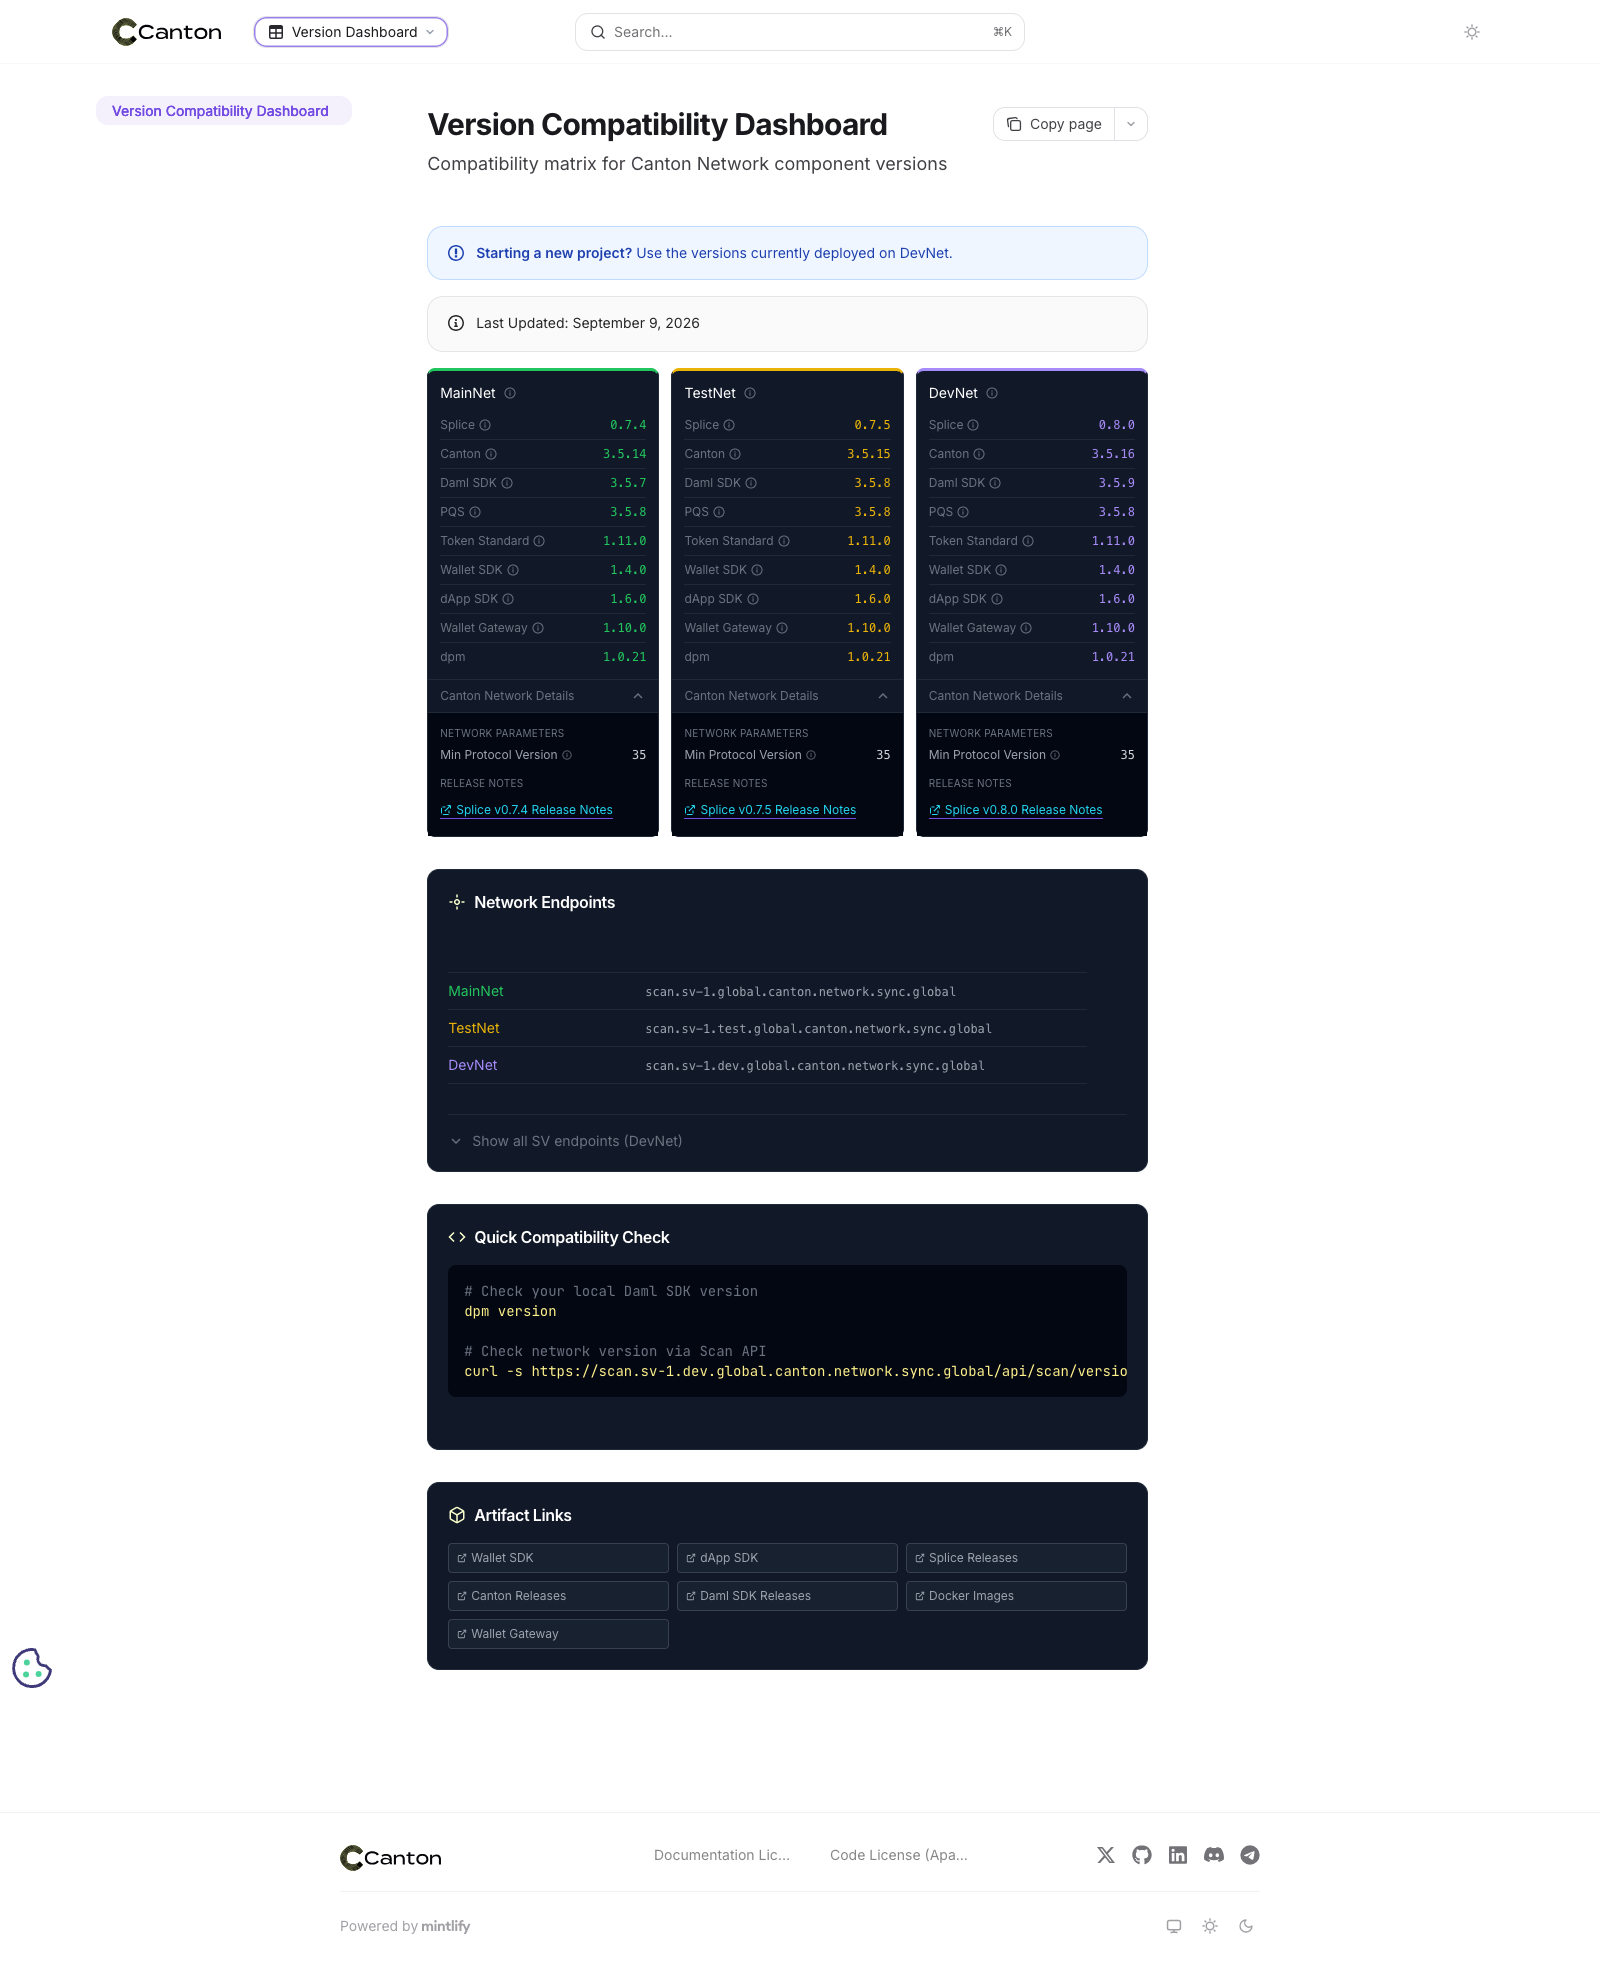
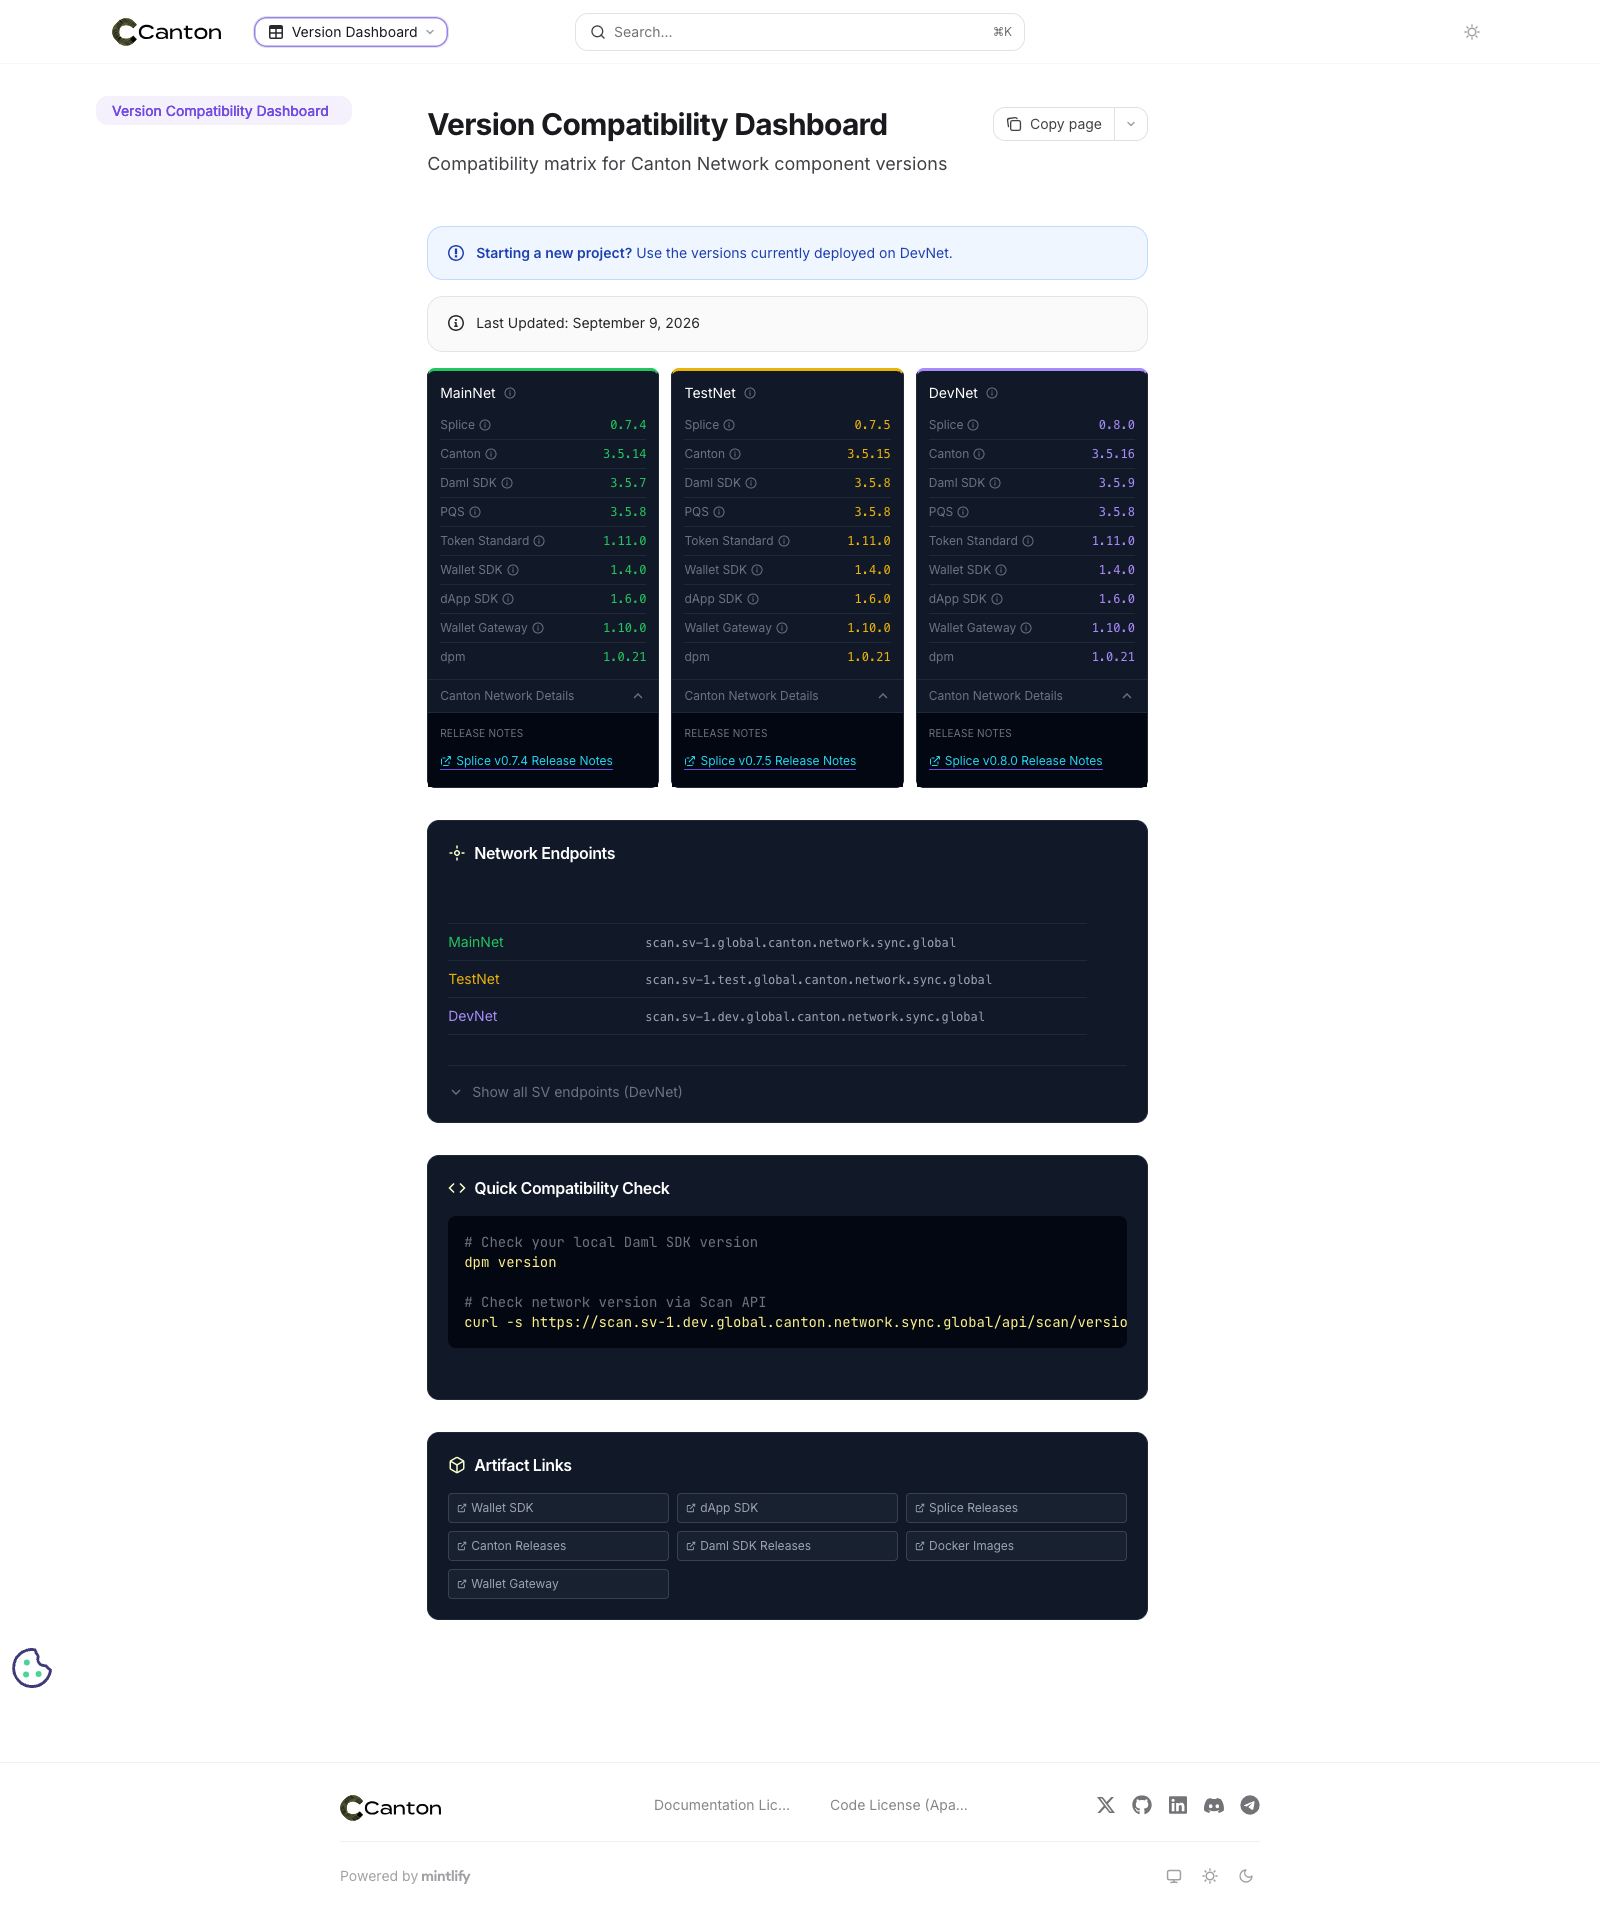
Combine dashboard parameter removals and remove section heading

diff --git a/scripts/helpers/updateVersionDashboardData.js b/scripts/helpers/updateVersionDashboardData.js
@@ -179,7 +179,6 @@ function generateMDX(dashboardMetadata, networkData) {
     
     // Advanced object
     lines.push(`    advanced: {`);
-    lines.push(`      minProtocolVersion: ${formatValue(network.advanced.minProtocolVersion, 3)},`);
     
     lines.push(`      releaseUrl: ${formatValue(network.advanced.releaseUrl, 3)},`);
     lines.push(`    },`);

diff --git a/scripts/generate_network_component_versions.py b/scripts/generate_network_component_versions.py
@@ -486,10 +486,6 @@ def existing_network(existing_config: dict, network_key: str) -> dict:
     return dict(existing_config.get("versions", {}).get(network_key, {}))
 
 
-def existing_advanced(existing_config: dict, network_key: str) -> dict:
-    return dict(existing_network(existing_config, network_key).get("advanced", {}))
-
-
 def existing_repo_version(existing_config: dict, repository_key: str, network_key: str) -> str:
     repository = existing_config.get("repositories", {}).get(repository_key, {})
     mapping = repository.get("versionMapping", {}).get(network_key, {})
@@ -666,13 +662,11 @@ def build_versions(existing_config: dict, snapshot: dict) -> dict:
     for network_key in NETWORK_ORDER:
         existing = existing_network(existing_config, network_key)
         existing_substitutions = existing.get("substitutions", {})
-        existing_advanced_data = existing_advanced(existing_config, network_key)
         network = snapshot["networks"][network_key]
 
         versions[network_key] = {
             "name": network["displayName"],
             "advanced": {
-                "minProtocolVersion": existing_advanced_data.get("minProtocolVersion", ""),
                 "releaseUrl": updated_release_url(network["spliceVersion"]),
             },
             "endpoint": network["endpoint"],
@@ -810,7 +804,6 @@ def build_source_contract(snapshot: dict) -> dict:
             f"{PQS_SCRIBE_RELEASE_LINE_TAG}. If the floating release-line tag resolves "
             "to a prerelease, retain the previous stable dashboard value."
         ),
-        "minProtocolVersion": "Manual/fallback until a public live source is identified.",
     }
 
 
